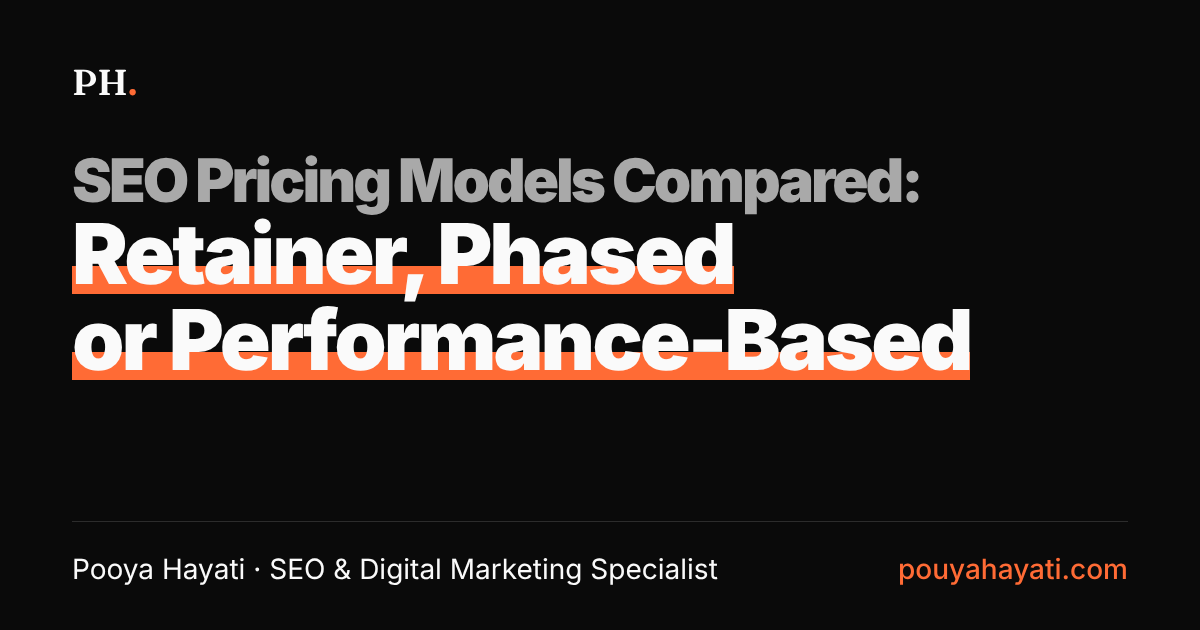
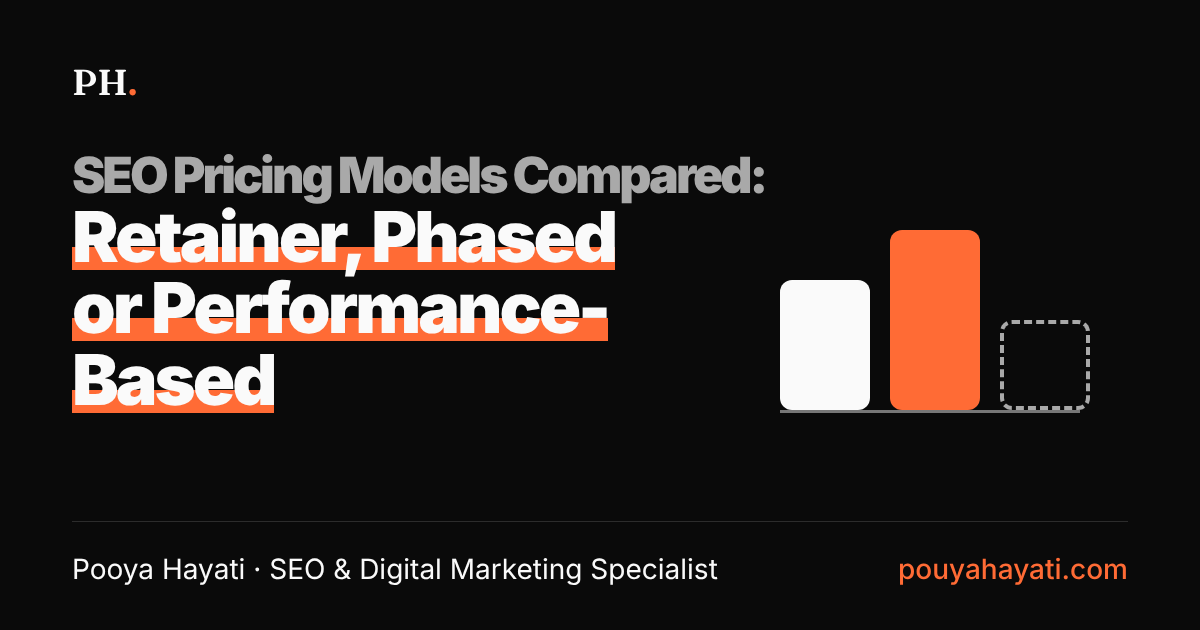
Pricing post: thumbnail graphic in hero and og image, simpler infographics
Claude-Session: https://claude.ai/code/session_01HUqVMAS3WigQngVT7qWUdx

Changed region(s): [[0.0617, 0.2413, 0.925, 0.6635], [0.8942, 0.5127, 0.925, 0.5429], [0.8633, 0.4825, 0.8942, 0.5127]]

diff --git a/public/blog/seo-pricing-models/index.html b/public/blog/seo-pricing-models/index.html
@@ -418,6 +418,14 @@ tbody th { font-weight: 700; color: var(--ink); }
 /* Justified body text, as on the KPIs post; cards, tables and graphics stay left-aligned */
 .article-body .section > p, .article-body .section > ul > li, .article-body .section > ol > li, .article-body .tldr-list li, .article-body .src-note { text-align: justify; text-justify: inter-word; -webkit-hyphens: auto; hyphens: auto; }
 .article-body .check li, .article-body .qs li, .article-body .fig li, .article-body .sources-list li, .article-body .facts dd, .article-body .t-pick td { text-align: left; hyphens: manual; }
+.dep-row { display: flex; flex-wrap: wrap; gap: 8px; margin-top: 14px; max-width: none; }
+.dep-row li { display: inline-flex; align-items: center; gap: 8px; max-width: none; padding: 9px 14px; border-radius: 999px; font-weight: 700; font-size: .92rem; }
+.dep-row li svg { width: 15px; height: 15px; stroke-width: 3; }
+.dep-row .yes { background: var(--spark-wash); }
+.dep-row .no { border: 1.5px dashed var(--bad); color: var(--ink); }
+.dep-row .no svg { stroke: var(--bad); }
+.ai-lead small { display: none; }
+.hero-chart svg { max-height: 300px; }
 @media (prefers-reduced-motion: reduce) { html { scroll-behavior: auto; } * { transition: none !important; animation: none !important; } }
   @media (min-width: 1400px) { .hero .hero-grid { grid-template-columns: minmax(0, 1fr) minmax(0, 520px); gap: 80px; } }
   </style>
@@ -461,20 +469,17 @@ height="0" width="0" style="display:none;visibility:hidden"></iframe></noscript>
             <a class="btn btn-ghost-d" href="#choose">How to choose</a>
           </div>
         </div>
-<div class="hero-chart only-d">
-          <span class="sticker">3 proposals, 3 prices</span>
-          <svg viewBox="0 0 480 300" role="img" aria-label="Illustration: three proposals, a monthly fee of $900, a $3,500 project and a pay-when-you-rank promise, are not the same thing">
-            <g font-family="Inter, sans-serif">
-              <text x="16" y="44" font-size="14" font-weight="700" style="fill:var(--dark-soft)">SELLS TIME</text>
-              <text x="464" y="44" font-size="18" font-weight="800" text-anchor="end" style="fill:var(--dark-ink)">$900 a month</text>
-              <g style="fill:var(--dark-ink)"><rect x="16" y="56" width="68" height="22" rx="5"/><rect x="94" y="56" width="68" height="22" rx="5"/><rect x="172" y="56" width="68" height="22" rx="5"/><rect x="250" y="56" width="68" height="22" rx="5"/><rect x="328" y="56" width="68" height="22" rx="5"/><rect x="406" y="56" width="58" height="22" rx="5"/></g>
-              <text x="16" y="136" font-size="14" font-weight="700" style="fill:var(--dark-soft)">SELLS A DEFINED PIECE OF WORK</text>
-              <text x="464" y="136" font-size="18" font-weight="800" text-anchor="end" style="fill:var(--dark-ink)">$3,500</text>
-              <rect x="16" y="148" width="448" height="22" rx="5" style="fill:var(--spark)"/>
-              <text x="16" y="228" font-size="14" font-weight="700" style="fill:var(--dark-soft)">SELLS A PROMISE ABOUT GOOGLE</text>
-              <text x="464" y="228" font-size="18" font-weight="800" text-anchor="end" style="fill:var(--dark-ink)">pay when you rank</text>
-              <rect x="16" y="240" width="448" height="22" rx="5" fill="none" stroke-width="2" stroke-dasharray="6 6" style="stroke:var(--dark-soft)"/>
-              <text x="240" y="288" font-size="13" font-weight="700" text-anchor="middle" style="fill:var(--spark)">NOT THE SAME THING</text>
+<div class="hero-chart %s">
+          <span class="sticker">Retainer · Phased · Performance</span>
+          <svg viewBox="0 0 320 200" role="img" aria-label="Three pricing models: retainer, phased and performance based">
+            <g font-family="Inter, sans-serif" font-size="13" font-weight="700" text-anchor="middle">
+              <rect x="40" y="70" width="70" height="90" rx="6" style="fill:var(--dark-ink)"/>
+              <rect x="125" y="40" width="70" height="120" rx="6" style="fill:var(--spark)"/>
+              <rect x="210" y="100" width="70" height="60" rx="6" fill="none" stroke-width="2" stroke-dasharray="5 5" style="stroke:var(--dark-soft)"/>
+              <line x1="20" y1="162" x2="300" y2="162" stroke-width="1.5" style="stroke:var(--dark-soft)"/>
+              <text x="75" y="184" style="fill:var(--dark-ink)">Retainer</text>
+              <text x="160" y="184" style="fill:var(--spark)">Phased</text>
+              <text x="245" y="184" style="fill:var(--dark-soft)">Performance</text>
             </g>
           </svg>
         </div>
@@ -542,23 +547,20 @@ height="0" width="0" style="display:none;visibility:hidden"></iframe></noscript>
   </div>
 
   <div class="only-m chart-m">
-      <div class="hero-chart ">
-          <span class="sticker">3 proposals, 3 prices</span>
-          <svg viewBox="0 0 480 300" role="img" aria-label="Illustration: three proposals, a monthly fee of $900, a $3,500 project and a pay-when-you-rank promise, are not the same thing">
-            <g font-family="Inter, sans-serif">
-              <text x="16" y="44" font-size="14" font-weight="700" style="fill:var(--dark-soft)">SELLS TIME</text>
-              <text x="464" y="44" font-size="18" font-weight="800" text-anchor="end" style="fill:var(--dark-ink)">$900 a month</text>
-              <g style="fill:var(--dark-ink)"><rect x="16" y="56" width="68" height="22" rx="5"/><rect x="94" y="56" width="68" height="22" rx="5"/><rect x="172" y="56" width="68" height="22" rx="5"/><rect x="250" y="56" width="68" height="22" rx="5"/><rect x="328" y="56" width="68" height="22" rx="5"/><rect x="406" y="56" width="58" height="22" rx="5"/></g>
-              <text x="16" y="136" font-size="14" font-weight="700" style="fill:var(--dark-soft)">SELLS A DEFINED PIECE OF WORK</text>
-              <text x="464" y="136" font-size="18" font-weight="800" text-anchor="end" style="fill:var(--dark-ink)">$3,500</text>
-              <rect x="16" y="148" width="448" height="22" rx="5" style="fill:var(--spark)"/>
-              <text x="16" y="228" font-size="14" font-weight="700" style="fill:var(--dark-soft)">SELLS A PROMISE ABOUT GOOGLE</text>
-              <text x="464" y="228" font-size="18" font-weight="800" text-anchor="end" style="fill:var(--dark-ink)">pay when you rank</text>
-              <rect x="16" y="240" width="448" height="22" rx="5" fill="none" stroke-width="2" stroke-dasharray="6 6" style="stroke:var(--dark-soft)"/>
-              <text x="240" y="288" font-size="13" font-weight="700" text-anchor="middle" style="fill:var(--spark)">NOT THE SAME THING</text>
+      <div class="hero-chart %s">
+          <span class="sticker">Retainer · Phased · Performance</span>
+          <svg viewBox="0 0 320 200" role="img" aria-label="Three pricing models: retainer, phased and performance based">
+            <g font-family="Inter, sans-serif" font-size="13" font-weight="700" text-anchor="middle">
+              <rect x="40" y="70" width="70" height="90" rx="6" style="fill:var(--dark-ink)"/>
+              <rect x="125" y="40" width="70" height="120" rx="6" style="fill:var(--spark)"/>
+              <rect x="210" y="100" width="70" height="60" rx="6" fill="none" stroke-width="2" stroke-dasharray="5 5" style="stroke:var(--dark-soft)"/>
+              <line x1="20" y1="162" x2="300" y2="162" stroke-width="1.5" style="stroke:var(--dark-soft)"/>
+              <text x="75" y="184" style="fill:var(--dark-ink)">Retainer</text>
+              <text x="160" y="184" style="fill:var(--spark)">Phased</text>
+              <text x="245" y="184" style="fill:var(--dark-soft)">Performance</text>
             </g>
           </svg>
-</div>
+        </div>
   </div>
 
   <!-- 01 -->
@@ -605,14 +607,11 @@ height="0" width="0" style="display:none;visibility:hidden"></iframe></noscript>
     <p class="src-note">Sources: <a href="https://ahrefs.com/blog/seo-pricing/">Ahrefs</a>, <a href="https://seranking.com/blog/seo-pricing/">SE Ranking</a>, <a href="https://seranking.com/blog/pay-for-performance-seo/">SE Ranking on pay for performance</a>. The two surveys ask different questions, so do not add or compare the columns directly.</p>
 
     <figure class="fig" style="margin-inline:0" aria-labelledby="fig-bars-t">
-      <div class="fig-head">
-        <h4 id="fig-bars-t">Share of providers using each model</h4>
-        <p>Retainer leads in both surveys. Each survey on its own scale.</p>
-      </div>
+      <div class="fig-head"><h4 id="fig-bars-t">Retainer leads in both surveys</h4></div>
       <div class="bars2">
         <div class="bar-block">
           <h5>Ahrefs · 439 providers</h5>
-          <p class="sub">Could pick several models</p>
+          <p class="sub">Could pick several</p>
           <div class="bar-row top"><span class="nm">Monthly retainer</span><span class="val">78.2%</span><span class="track"><span class="fill" style="width:78.2%"></span></span></div>
           <div class="bar-row"><span class="nm">Per project</span><span class="val">48.9%</span><span class="track"><span class="fill" style="width:48.9%"></span></span></div>
           <div class="bar-row"><span class="nm">Hourly</span><span class="val">34.8%</span><span class="track"><span class="fill" style="width:34.8%"></span></span></div>
@@ -620,12 +619,12 @@ height="0" width="0" style="display:none;visibility:hidden"></iframe></noscript>
         </div>
         <div class="bar-block">
           <h5>SE Ranking · 260 agencies</h5>
-          <p class="sub">Main model / used together with other models</p>
-          <div class="bar-row top"><span class="nm">Monthly retainer (main model)</span><span class="val">53%</span><span class="track"><span class="fill" style="width:53%"></span></span></div>
-          <div class="bar-row"><span class="nm">Performance based (together with other models)</span><span class="val">about 6%</span><span class="track"><span class="fill" style="width:6%"></span></span></div>
+          <p class="sub">Main model, or used with others</p>
+          <div class="bar-row top"><span class="nm">Monthly retainer</span><span class="val">53%</span><span class="track"><span class="fill" style="width:53%"></span></span></div>
+          <div class="bar-row"><span class="nm">Performance based</span><span class="val">about 6%</span><span class="track"><span class="fill" style="width:6%"></span></span></div>
         </div>
       </div>
-      <p class="fig-note"><b>Provider-reported</b>Providers, not buyers, answered both surveys. The two surveys ask different questions, so do not compare the panels directly. Sources: Ahrefs, SE Ranking.</p>
+      <p class="fig-note"><b>Provider-reported</b>Providers answered, not buyers. Two different surveys: do not compare the panels. Sources: Ahrefs, SE Ranking.</p>
     </figure>
 
     <p class="subhead"><strong>What retainers cost</strong></p>
@@ -644,33 +643,30 @@ height="0" width="0" style="display:none;visibility:hidden"></iframe></noscript>
     <h2 id="models-title">The three models in plain words</h2>
 
     <figure class="fig" style="margin-inline:0" aria-labelledby="fig-cmp-t">
-      <div class="fig-head">
-        <h4 id="fig-cmp-t">The three models side by side</h4>
-        <p>What each is good for, where it goes wrong, and the question to ask.</p>
-      </div>
+      <div class="fig-head"><h4 id="fig-cmp-t">The three models at a glance</h4></div>
       <div class="cmp">
         <div class="cmp-col">
-          <h5>1. Monthly retainer</h5>
+          <h5>Retainer</h5>
           <dl>
-            <div><dt>Good for</dt><dd>Steady content, links, fixes and monthly review.</dd></div>
-            <div><dt>Risk</dt><dd>You pay for time, not for results.</dd></div>
-            <div class="ask"><dt>Ask</dt><dd>What exactly will you deliver every month, and who implements it?</dd></div>
+            <div><dt>Good for</dt><dd>Steady monthly work</dd></div>
+            <div><dt>Risk</dt><dd>You pay for time, not results</dd></div>
+            <div class="ask"><dt>Ask</dt><dd>What do I get every month, and who does it?</dd></div>
           </dl>
         </div>
         <div class="cmp-col best">
-          <h5>2. Phased</h5>
+          <h5>Phased</h5>
           <dl>
-            <div><dt>Good for</dt><dd>Owners who are unsure what is wrong, or who want a lower first commitment.</dd></div>
-            <div><dt>Risk</dt><dd>Work can stop before results build up.</dd></div>
-            <div class="ask"><dt>Ask</dt><dd>What is in phase 1, what do I own at the end, and what does phase 2 cost?</dd></div>
+            <div><dt>Good for</dt><dd>Not sure what is wrong</dd></div>
+            <div><dt>Risk</dt><dd>Work stops before results build</dd></div>
+            <div class="ask"><dt>Ask</dt><dd>What is in phase 1, and what does phase 2 cost?</dd></div>
           </dl>
         </div>
         <div class="cmp-col skip">
-          <h5>3. Performance based</h5>
+          <h5>Performance</h5>
           <dl>
-            <div><dt>Good for</dt><dd>Only a base fee plus a bonus tied to business results.</dd></div>
-            <div><dt>Risk</dt><dd>The provider can pick easy keywords, hit the target, and your phone stays quiet.</dd></div>
-            <div class="ask"><dt>Ask</dt><dd>Ask for the formula in writing.</dd></div>
+            <div><dt>Good for</dt><dd>Only as base fee + bonus</dd></div>
+            <div><dt>Risk</dt><dd>Easy keywords, quiet phone</dd></div>
+            <div class="ask"><dt>Ask</dt><dd>Show me the formula in writing</dd></div>
           </dl>
         </div>
       </div>
@@ -694,17 +690,14 @@ height="0" width="0" style="display:none;visibility:hidden"></iframe></noscript>
     <p style="margin-top:18px">This is my label, not an industry standard. The closest pattern in the sources is "project first, then retainer", which agency newsletters describe. All five AI assistants described the same path when I asked (see below).</p>
 
     <figure class="fig" style="margin-inline:0" aria-labelledby="fig-tl-t">
-      <div class="fig-head">
-        <h4 id="fig-tl-t">The phased path</h4>
-        <p>A fixed price project first, then a smaller retainer with review points at about 90 and 180 days.</p>
-      </div>
+      <div class="fig-head"><h4 id="fig-tl-t">The phased path</h4></div>
       <ol class="tl">
-        <li><span class="dot" aria-hidden="true"></span><span class="kind">Phase 1</span><span class="ttl">Fixed price project</span><span class="sub">Usually a few weeks: audit, keyword plan, technical fixes, a roadmap.</span></li>
-        <li><span class="dot" aria-hidden="true"></span><span class="kind">Phase 2</span><span class="ttl">Smaller retainer</span><span class="sub">Ongoing work.</span></li>
-        <li class="rev"><span class="dot" aria-hidden="true"></span><span class="kind">Review</span><span class="ttl">At about 90 days</span></li>
-        <li class="rev"><span class="dot" aria-hidden="true"></span><span class="kind">Review</span><span class="ttl">At about 180 days</span></li>
+        <li><span class="dot" aria-hidden="true"></span><span class="kind">Phase 1</span><span class="ttl">Fixed price project</span><span class="sub">Audit, plan, fixes, roadmap</span></li>
+        <li><span class="dot" aria-hidden="true"></span><span class="kind">Phase 2</span><span class="ttl">Smaller monthly retainer</span></li>
+        <li class="rev"><span class="dot" aria-hidden="true"></span><span class="kind">Review</span><span class="ttl">Around day 90</span></li>
+        <li class="rev"><span class="dot" aria-hidden="true"></span><span class="kind">Review</span><span class="ttl">Around day 180</span></li>
       </ol>
-      <p class="fig-note">Schematic, not to scale. Scope must be written down.</p>
+      <p class="fig-note">Not to scale.</p>
     </figure>
 
     <h3><span class="model-n">3</span>Performance based</h3>
@@ -720,40 +713,18 @@ height="0" width="0" style="display:none;visibility:hidden"></iframe></noscript>
     <p><strong>The only version that survives:</strong> a base fee you would accept anyway, plus a bonus tied to business results (qualified leads or extra organic revenue, not rankings). The baseline, the keyword list, how results are measured and who owns the work if you leave must all be written before you start. Performance vendors rarely publish prices, so ask for the formula in writing.</p>
 
     <figure class="fig" style="margin-inline:0" aria-labelledby="fig-fee-t">
-      <div class="fig-head">
-        <h4 id="fig-fee-t">The only version that survives: base fee plus bonus</h4>
-        <p>The bonus should depend on business results, not on rankings.</p>
-      </div>
+      <div class="fig-head"><h4 id="fig-fee-t">The only version that holds up</h4></div>
       <div class="fee">
-        <div class="fee-box base">
-          <h5>Base fee</h5>
-          <p>A fee you would accept anyway.</p>
-        </div>
+        <div class="fee-box base"><h5>Base fee</h5><p>One you would pay anyway</p></div>
         <div class="fee-plus" aria-hidden="true">+</div>
-        <div class="fee-box bonus">
-          <h5>Bonus</h5>
-          <p>Tied to business results.</p>
-          <div class="depends">
-            <div class="dep yes">
-              <span class="mono">Should depend on</span>
-              <ul>
-                <li><svg class="ico" viewBox="0 0 24 24" aria-hidden="true"><path d="M5 12.5l4.5 4.5L19 7"/></svg>Qualified leads</li>
-                <li><svg class="ico" viewBox="0 0 24 24" aria-hidden="true"><path d="M5 12.5l4.5 4.5L19 7"/></svg>Extra organic revenue</li>
-              </ul>
-            </div>
-            <div class="dep no">
-              <span class="mono">Should not depend on</span>
-              <ul>
-                <li><svg class="ico" viewBox="0 0 24 24" aria-hidden="true"><path d="M6 6l12 12M18 6L6 18"/></svg>Rankings</li>
-              </ul>
-            </div>
-          </div>
-        </div>
+        <div class="fee-box bonus"><h5>Bonus</h5><p>Paid for business results</p></div>
       </div>
-      <div class="written">
-        <span class="mono">Written before you start</span>
-        <span class="c">Baseline</span><span class="c">Keyword list</span><span class="c">How results are measured</span><span class="c">Who owns the work if you leave</span>
-      </div>
+      <ul class="dep-row">
+        <li class="yes"><svg class="ico" viewBox="0 0 24 24" aria-hidden="true"><path d="M5 12.5l4.5 4.5L19 7"/></svg> Qualified leads</li>
+        <li class="yes"><svg class="ico" viewBox="0 0 24 24" aria-hidden="true"><path d="M5 12.5l4.5 4.5L19 7"/></svg> Extra organic revenue</li>
+        <li class="no"><svg class="ico" viewBox="0 0 24 24" aria-hidden="true"><path d="M6 6l12 12M18 6L6 18"/></svg> Rankings</li>
+      </ul>
+      <p class="fig-note">Write these down before you start: baseline, keyword list, how results are measured, who owns the work if you leave.</p>
     </figure>
 
     <p><strong>About guarantees:</strong> Ahrefs says the only guarantee it considers legitimate is a lawyer drafted one where the provider works for free if agreed results are not delivered, covers long term performance and excludes vanity metrics (<a href="https://ahrefs.com/blog/seo-guarantee/">Ahrefs</a>). Ahrefs also says don't sign a long contract on the strength of a short term guarantee.</p>
@@ -772,19 +743,15 @@ height="0" width="0" style="display:none;visibility:hidden"></iframe></noscript>
     </ul>
 
     <figure class="fig" style="margin-inline:0" aria-labelledby="fig-ai-t">
-      <div class="fig-head">
-        <h4 id="fig-ai-t">Five assistants, one answer on performance</h4>
-        <p>Three put the phased project first, two the retainer. All five avoid pure performance based pricing.</p>
-      </div>
+      <div class="fig-head"><h4 id="fig-ai-t">All five avoid pure performance pricing</h4></div>
       <div class="ai">
-        <div class="ai-card retainer"><h5>ChatGPT</h5><div class="ai-lead">Retainer best overall<small>with a phased start</small></div><div class="ai-avoid"><svg class="ico" viewBox="0 0 24 24" aria-hidden="true"><path d="M6 6l12 12M18 6L6 18"/></svg>Avoids pure performance</div></div>
-        <div class="ai-card"><h5>Gemini</h5><div class="ai-lead">Phased project first<small>then a retainer</small></div><div class="ai-avoid"><svg class="ico" viewBox="0 0 24 24" aria-hidden="true"><path d="M6 6l12 12M18 6L6 18"/></svg>Avoids pure performance</div></div>
-        <div class="ai-card retainer"><h5>Grok</h5><div class="ai-lead">Retainer best overall<small>with a phased start</small></div><div class="ai-avoid"><svg class="ico" viewBox="0 0 24 24" aria-hidden="true"><path d="M6 6l12 12M18 6L6 18"/></svg>Avoids pure performance</div></div>
-        <div class="ai-card"><h5>Perplexity</h5><div class="ai-lead">Phased project first<small>then a retainer</small></div><div class="ai-avoid"><svg class="ico" viewBox="0 0 24 24" aria-hidden="true"><path d="M6 6l12 12M18 6L6 18"/></svg>Avoids pure performance</div></div>
-        <div class="ai-card"><h5>Claude</h5><div class="ai-lead">Phased project first<small>then a retainer</small></div><div class="ai-avoid"><svg class="ico" viewBox="0 0 24 24" aria-hidden="true"><path d="M6 6l12 12M18 6L6 18"/></svg>Avoids pure performance</div></div>
+        <div class="ai-card retainer"><h5>ChatGPT</h5><div class="ai-lead">Retainer first</div><div class="ai-avoid"><svg class="ico" viewBox="0 0 24 24" aria-hidden="true"><path d="M6 6l12 12M18 6L6 18"/></svg> No pure performance</div></div>
+        <div class="ai-card"><h5>Gemini</h5><div class="ai-lead">Phased first</div><div class="ai-avoid"><svg class="ico" viewBox="0 0 24 24" aria-hidden="true"><path d="M6 6l12 12M18 6L6 18"/></svg> No pure performance</div></div>
+        <div class="ai-card retainer"><h5>Grok</h5><div class="ai-lead">Retainer first</div><div class="ai-avoid"><svg class="ico" viewBox="0 0 24 24" aria-hidden="true"><path d="M6 6l12 12M18 6L6 18"/></svg> No pure performance</div></div>
+        <div class="ai-card"><h5>Perplexity</h5><div class="ai-lead">Phased first</div><div class="ai-avoid"><svg class="ico" viewBox="0 0 24 24" aria-hidden="true"><path d="M6 6l12 12M18 6L6 18"/></svg> No pure performance</div></div>
+        <div class="ai-card"><h5>Claude</h5><div class="ai-lead">Phased first</div><div class="ai-avoid"><svg class="ico" viewBox="0 0 24 24" aria-hidden="true"><path d="M6 6l12 12M18 6L6 18"/></svg> No pure performance</div></div>
       </div>
-      <p class="ai-key"><span><i></i>Phased project first</span><span><i class="r"></i>Retainer best overall, with a phased start</span></p>
-      <p class="fig-note"><b>Not independent evidence</b>My question used the words "phased project", so the answers used them too.</p>
+      <p class="fig-note"><b>Not independent evidence</b>My question used the words "phased project".</p>
     </figure>
 
     <p>Two cautions. My question used the words "phased project", so the answers used them too. And the assistants quote prices without sources, so I left their prices out. This is not independent evidence: when I checked, Perplexity's sources were all agency blogs. It shows that the advice above is where the common view has landed.</p>
